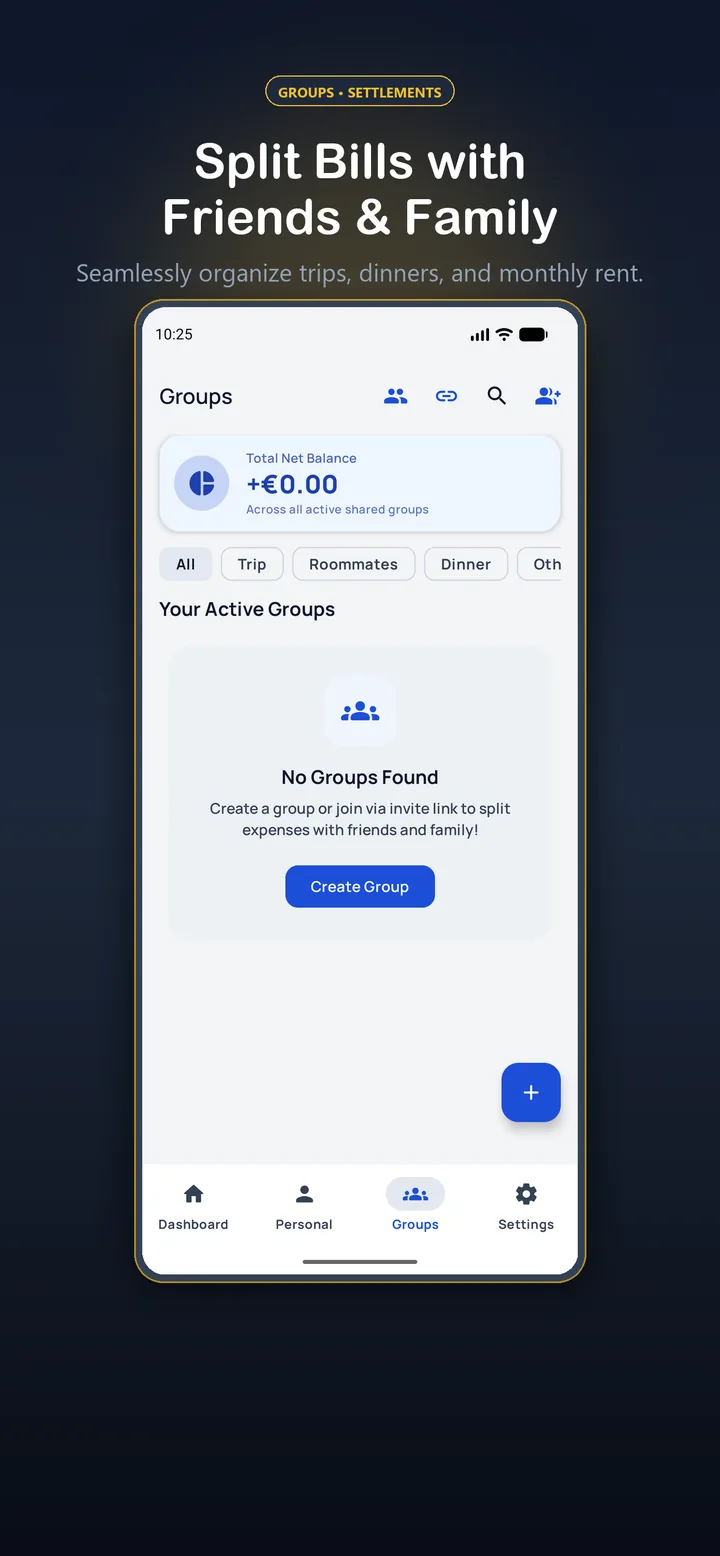
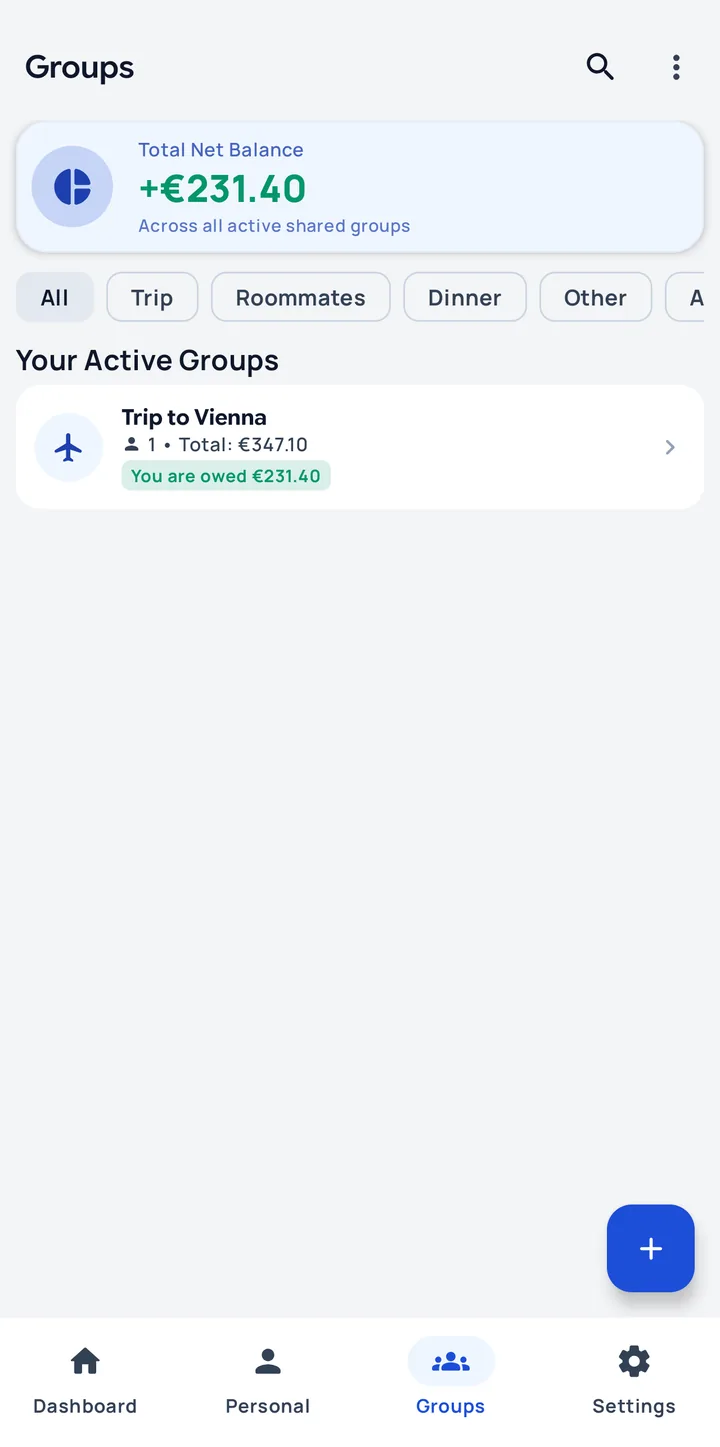
Keep soft crimson wash on negative values; fix guest-data loss on cold start and account switch; guest-to-account data transfer on signup; refresh landing screenshots with populated data

diff --git a/app/src/main/java/com/finance/splitup/MainActivity.kt b/app/src/main/java/com/finance/splitup/MainActivity.kt
@@ -92,20 +92,58 @@ class MainActivity : FragmentActivity() {
                             hasCompletedOnboarding = true
                         }
                     } catch (_: Exception) {}
+                    // Guest-to-account transfer: the new account has no cloud doc yet, but the
+                    // local DB already holds the guest's data — skip re-onboarding.
+                    if (!hasCompletedOnboarding) {
+                        val transferredGuestData = try {
+                            viewModel.hasLocalData()
+                        } catch (_: Exception) {
+                            false
+                        }
+                        if (transferredGuestData) {
+                            prefs.edit()
+                                .putBoolean("has_completed_onboarding_$currentUserId", true)
+                                .putBoolean("has_completed_onboarding", true)
+                                .apply()
+                            hasCompletedOnboarding = true
+                        }
+                    }
                     isCheckingCloudOnboarding = false
                 } else {
                     isCheckingCloudOnboarding = false
                 }
             }
 
+            var hadAuthenticatedSession by remember { mutableStateOf(false) }
+            // Track the previous auth state so a guest (LocalDemo) who signs up / signs in
+            // can have their local data transferred instead of wiped by the uid-change
+            // guard inside CloudSyncManager.
+            var previousAuthState by remember { mutableStateOf<com.finance.splitup.viewmodel.AuthState?>(null) }
             LaunchedEffect(authState) {
+                val previous = previousAuthState
+                if (previous is com.finance.splitup.viewmodel.AuthState.LocalDemo &&
+                    authState !is com.finance.splitup.viewmodel.AuthState.LocalDemo
+                ) {
+                    try {
+                        context.getSharedPreferences("splitup_sync_prefs", android.content.Context.MODE_PRIVATE)
+                            .edit().putBoolean("pending_guest_transfer", true).apply()
+                    } catch (_: Exception) {}
+                }
+                previousAuthState = authState
                 when (authState) {
                     is com.finance.splitup.viewmodel.AuthState.Authenticated -> {
+                        hadAuthenticatedSession = true
                         viewModel.triggerCloudSync()
                         com.finance.splitup.data.SplitUpMessagingService.uploadTokenToFirestore()
                     }
                     is com.finance.splitup.viewmodel.AuthState.Unauthenticated -> {
-                        viewModel.clearLocalDataOnSignOut()
+                        // Only wipe local data for a real sign-out (an authenticated session that
+                        // ended in this process). At cold start with no Firebase user this must NOT
+                        // run, otherwise a returning guest's local data is destroyed on every app
+                        // update before the guest session is restored.
+                        if (hadAuthenticatedSession) {
+                            viewModel.clearLocalDataOnSignOut()
+                        }
                     }
                     else -> {}
                 }

diff --git a/app/src/main/java/com/finance/splitup/ui/screens/GroupDetailScreen.kt b/app/src/main/java/com/finance/splitup/ui/screens/GroupDetailScreen.kt
@@ -457,7 +457,7 @@ fun GroupDetailContent(
                                     shape = RoundedCornerShape(8.dp),
                                     color = when {
                                         bal > 0.01 -> EmeraldSuccess.copy(alpha = 0.15f)
-                                        bal < -0.01 -> MaterialTheme.colorScheme.surface
+                                        bal < -0.01 -> CrimsonDanger.copy(alpha = 0.15f)
                                         else -> EmeraldSuccess.copy(alpha = 0.15f)
                                     }
                                 ) {
@@ -671,8 +671,8 @@ fun GroupDetailContent(
                             shape = RoundedCornerShape(18.dp),
                             colors = CardDefaults.cardColors(
                                 containerColor = when {
-                                    isMyDebt -> MaterialTheme.colorScheme.surface
-                                    isOwedToMe -> MaterialTheme.colorScheme.surface
+                                    isMyDebt -> CrimsonDanger.copy(alpha = 0.12f)
+                                    isOwedToMe -> EmeraldSuccess.copy(alpha = 0.12f)
                                     else -> MaterialTheme.colorScheme.surfaceVariant.copy(alpha = 0.3f)
                                 }
                             ),
@@ -711,7 +711,7 @@ fun GroupDetailContent(
                                             )
                                             Surface(
                                                 shape = RoundedCornerShape(8.dp),
-                                                color = if (isMyDebt) MaterialTheme.colorScheme.surface else if (isOwedToMe) EmeraldSuccess.copy(alpha = 0.12f) else MaterialTheme.colorScheme.primary.copy(alpha = 0.12f)
+                                                color = if (isMyDebt) CrimsonDanger.copy(alpha = 0.12f) else if (isOwedToMe) EmeraldSuccess.copy(alpha = 0.12f) else MaterialTheme.colorScheme.primary.copy(alpha = 0.12f)
                                             ) {
                                                 Text(text = "$currencySymbol${String.format(Locale.US, "%.2f", settlement.amount)}", modifier = Modifier.padding(horizontal = 8.dp, vertical = 2.dp), style = SplitUpType.ChipLabel, color = if (isMyDebt) CrimsonDanger else if (isOwedToMe) EmeraldSuccess else MaterialTheme.colorScheme.primary)
                                             }
@@ -723,7 +723,7 @@ fun GroupDetailContent(
                                         Surface(
                                             shape = RoundedCornerShape(6.dp),
                                             color = when {
-                                                isMyDebt -> MaterialTheme.colorScheme.surface
+                                                isMyDebt -> CrimsonDanger.copy(alpha = 0.12f)
                                                 isOwedToMe -> EmeraldSuccess.copy(alpha = 0.12f)
                                                 else -> MaterialTheme.colorScheme.surfaceVariant
                                             }

diff --git a/landing/index.html b/landing/index.html
@@ -937,31 +937,31 @@
             <div class="screenshots-grid">
                 <div class="screenshot-card">
                     <div class="screenshot-frame">
-                        <img src="./screenshots/Groups.webp" alt="Groups Screen" loading="lazy" width="720" height="1556">
+                        <img src="./screenshots/Groups.webp" alt="Groups Screen" loading="lazy" width="720" height="1447">
                     </div>
                     <span class="screenshot-label">Groups</span>
                 </div>
                 <div class="screenshot-card">
                     <div class="screenshot-frame">
-                        <img src="./screenshots/PersonalExpenses.webp" alt="Personal Expense Manager" loading="lazy" width="720" height="1556">
+                        <img src="./screenshots/PersonalExpenses.webp" alt="Personal Expense Manager" loading="lazy" width="720" height="1447">
                     </div>
                     <span class="screenshot-label">Personal Expenses</span>
                 </div>
                 <div class="screenshot-card">
                     <div class="screenshot-frame">
-                        <img src="./screenshots/Dashboard.webp" alt="Dashboard Overview" loading="lazy" width="720" height="1556">
+                        <img src="./screenshots/Dashboard.webp" alt="Dashboard Overview" loading="lazy" width="720" height="1447">
                     </div>
                     <span class="screenshot-label">Dashboard</span>
                 </div>
                 <div class="screenshot-card">
                     <div class="screenshot-frame">
-                        <img src="./screenshots/Insights.webp" alt="Getting Started Onboarding" loading="lazy" width="720" height="1556">
+                        <img src="./screenshots/Insights.webp" alt="Getting Started Onboarding" loading="lazy" width="720" height="1447">
                     </div>
                     <span class="screenshot-label">Get Started</span>
                 </div>
                 <div class="screenshot-card">
                     <div class="screenshot-frame">
-                        <img src="./screenshots/Settings.webp" alt="Settings & Data Controls" loading="lazy" width="720" height="1556">
+                        <img src="./screenshots/Settings.webp" alt="Settings & Data Controls" loading="lazy" width="720" height="1447">
                     </div>
                     <span class="screenshot-label">Settings</span>
                 </div>

diff --git a/app/src/main/java/com/finance/splitup/data/CloudSyncManager.kt b/app/src/main/java/com/finance/splitup/data/CloudSyncManager.kt
@@ -666,11 +666,18 @@ object CloudSyncManager {
                     // plain SharedPreferences — mixing corrupts the file and triggers wipes.
                     val prefs = context.getSharedPreferences(PREFS_NAME, Context.MODE_PRIVATE)
                     val lastUid = prefs.getString("last_sync_uid", null)
-                        if (lastUid != null && lastUid != uid) {
+                    // A guest who just signed up keeps their local data and transfers it to the new
+                    // account: the flag below is set by MainActivity when leaving LocalDemo, so the
+                    // uid-change wipe (meant for switching between two real accounts) must not run.
+                    val guestTransfer = prefs.getBoolean("pending_guest_transfer", false)
+                        if (lastUid != null && lastUid != uid && !guestTransfer) {
                             repository.clearAllLocalData()
                             context.getSharedPreferences(PREFS_NAME, Context.MODE_PRIVATE).edit().clear().apply()
                         }
-                        prefs.edit().putString("last_sync_uid", uid).apply()
+                        prefs.edit()
+                            .putString("last_sync_uid", uid)
+                            .putBoolean("pending_guest_transfer", false)
+                            .apply()
                     }
 
                     // Push local dirty changes first

diff --git a/app/src/main/java/com/finance/splitup/ui/screens/NotificationsScreen.kt b/app/src/main/java/com/finance/splitup/ui/screens/NotificationsScreen.kt
@@ -548,8 +548,8 @@ fun NotificationsScreen(
                         }
 
                         val iconContainerColor = when (item) {
-                            is AlertItem.GroupBalance -> if (item.isOwed) EmeraldSuccess.copy(alpha = 0.15f) else MaterialTheme.colorScheme.surface
-                            is AlertItem.Budget -> if (item.isExceeded) MaterialTheme.colorScheme.surface else MaterialTheme.colorScheme.primaryContainer
+                            is AlertItem.GroupBalance -> if (item.isOwed) EmeraldSuccess.copy(alpha = 0.15f) else CrimsonDanger.copy(alpha = 0.15f)
+                            is AlertItem.Budget -> if (item.isExceeded) CrimsonDanger.copy(alpha = 0.15f) else MaterialTheme.colorScheme.primaryContainer
                             is AlertItem.Subscription -> if (item.isIncome) EmeraldSuccess.copy(alpha = 0.15f) else MaterialTheme.colorScheme.tertiaryContainer
                         }
 

diff --git a/app/src/main/java/com/finance/splitup/ui/screens/SpendingChartComponent.kt b/app/src/main/java/com/finance/splitup/ui/screens/SpendingChartComponent.kt
@@ -454,7 +454,7 @@ fun BudgetAndCategoryAnalyticsCard(
                                             if (rawProgress >= 1.0f) {
                                                 Surface(
                                                     shape = RoundedCornerShape(4.dp),
-                                                    color = MaterialTheme.colorScheme.surface
+                                                    color = CrimsonDanger.copy(alpha = 0.15f)
                                                 ) {
                                                     Text(text = "Exceeded", style = SplitUpType.MicroLabel, color = CrimsonDanger, modifier = Modifier.padding(horizontal = 6.dp, vertical = 2.dp))
                                                 }

diff --git a/app/src/main/java/com/finance/splitup/viewmodel/FinanceViewModel.kt b/app/src/main/java/com/finance/splitup/viewmodel/FinanceViewModel.kt
@@ -988,6 +988,18 @@ class FinanceViewModel(application: Application? = null) : AndroidViewModel(appl
         }
     }
 
+    /** True when the local Room DB already holds user-created data (used to skip
+     *  re-onboarding for a guest who just signed up and transferred their data). */
+    suspend fun hasLocalData(): Boolean {
+        val repo = repository ?: return false
+        return try {
+            repo.getExpenseCount() > 0 || repo.getGroupCount() > 0 ||
+                repo.getBudgetCount() > 0 || repo.getIncomeCount() > 0
+        } catch (_: Exception) {
+            false
+        }
+    }
+
     fun triggerCloudSync() {
         if (repository != null) {
             viewModelScope.launch {

diff --git a/app/src/main/java/com/finance/splitup/ui/screens/GroupsScreen.kt b/app/src/main/java/com/finance/splitup/ui/screens/GroupsScreen.kt
@@ -455,7 +455,7 @@ fun GroupCard(
                         shape = RoundedCornerShape(6.dp),
                         color = when {
                             userBalance > 0.01 -> EmeraldSuccess.copy(alpha = 0.15f)
-                            userBalance < -0.01 -> MaterialTheme.colorScheme.surface
+                            userBalance < -0.01 -> CrimsonDanger.copy(alpha = 0.15f)
                             else -> MaterialTheme.colorScheme.surfaceVariant
                         }
                     ) {

diff --git a/app/src/main/java/com/finance/splitup/ui/screens/AddGroupExpenseScreen.kt b/app/src/main/java/com/finance/splitup/ui/screens/AddGroupExpenseScreen.kt
@@ -520,7 +520,7 @@ fun AddGroupExpenseScreen(
 
                 Surface(
                     shape = RoundedCornerShape(12.dp),
-                    color = if (isFullyAllocated) EmeraldSuccess.copy(alpha = 0.15f) else MaterialTheme.colorScheme.surface,
+                    color = if (isFullyAllocated) EmeraldSuccess.copy(alpha = 0.15f) else CrimsonDanger.copy(alpha = 0.15f),
                     modifier = Modifier.fillMaxWidth()
                 ) {
                     Column(
